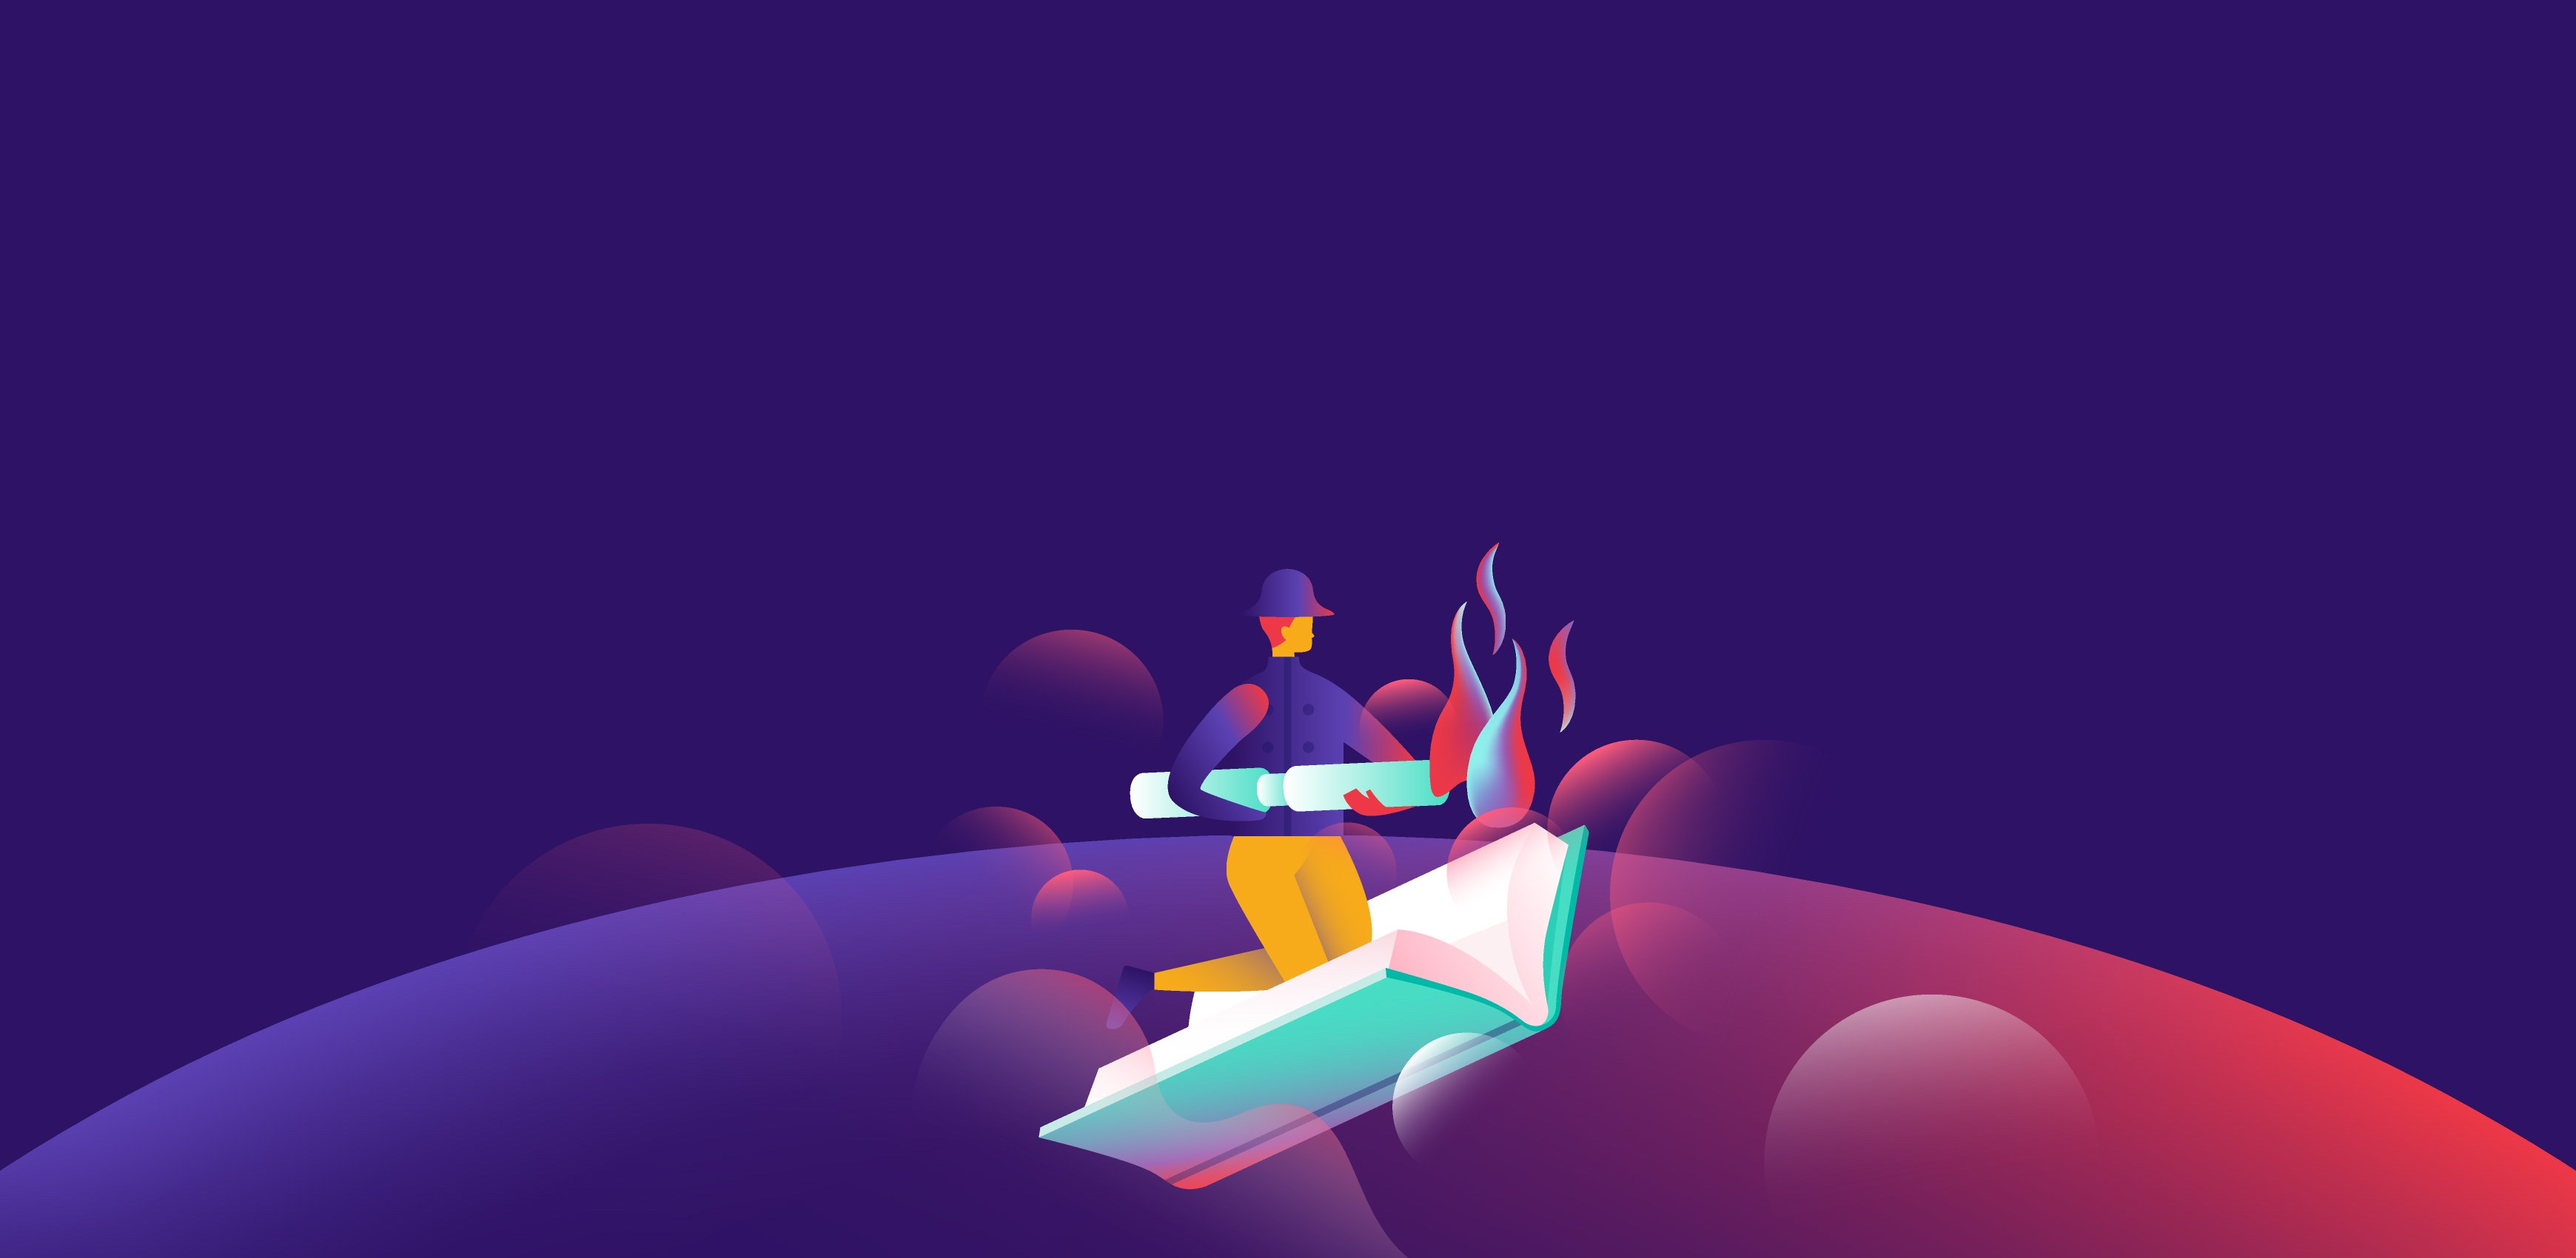
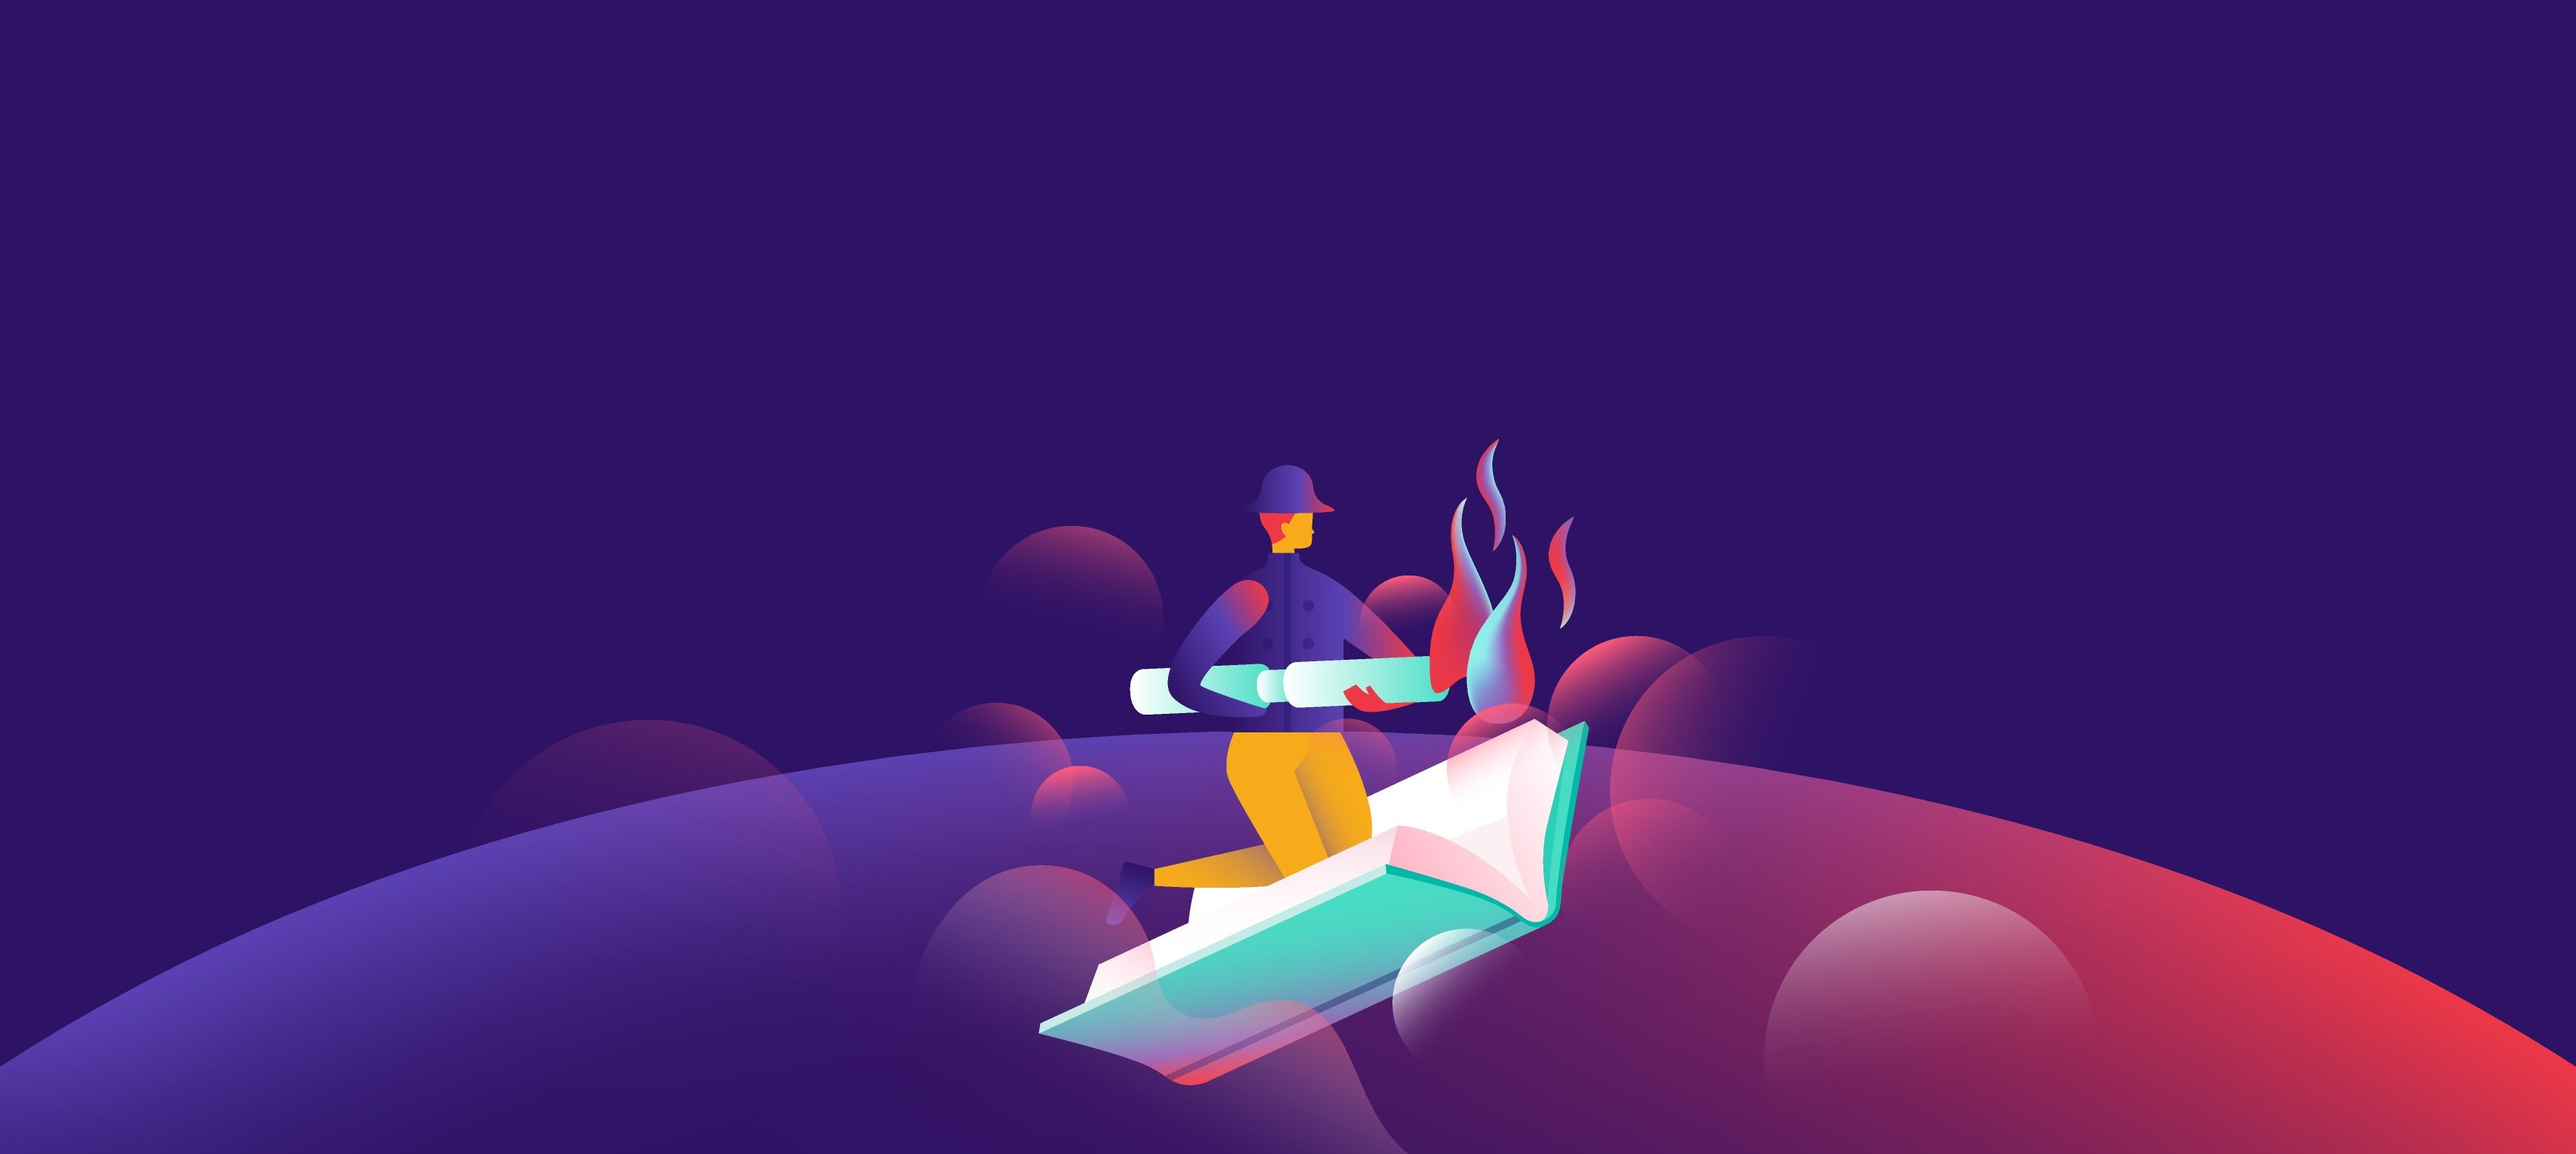
updated about page's navbar behavior

Changed region(s): [[0.031, 0.4, 1.0, 0.9538], [0.6828, 0.8, 0.7138, 0.8615], [0.0, 0.8923, 0.031, 0.9231]]

diff --git a/src/scss/pages/_about.scss b/src/scss/pages/_about.scss
@@ -4,23 +4,24 @@
 
     .hero-image {
         position: relative;
-        min-height: 90vh;
+        min-height: 80vh;
         background-image: url(/img/about-hero.jpg);
         background-size: cover;
         background-position: center center;
         color: #fff;
         text-align: center;
+        // z-index: 50000; // higher than navbar
 
         .aspect-ratio {
             content: '';
             display: block;
             width: 100%;
-            padding-top: 850px / 1740px * 100%;
+            padding-top: 790px / 1740px * 100%; // 850px / 1740px * 100%;
         }
 
         .inner {
             position: absolute;
-            top: (99px / 667px * 100%);
+            top: (39px / 607px * 100%); // (99px / 667px * 100%);
             left: 0;
             right: 0;
         }
@@ -103,7 +104,7 @@
 
         .hero-image {
             .inner {
-                top: (106px / 850px * 100%);
+                top: (36px / 780px * 100%); // (106px / 850px * 100%);
             }
 
             h1 {
@@ -165,7 +166,7 @@
     .about {
         .hero-image {
             .aspect-ratio {
-                padding-top: 667px;
+                padding-top: 597px; // 667px;
             }
         }
     }

diff --git a/src/scss/my-materialize/_navbar.scss b/src/scss/my-materialize/_navbar.scss
@@ -4,7 +4,7 @@ nav {
   width: 100%;
   height: $navbar-height-mobile;
   line-height: $navbar-line-height-mobile;
-  transition: all .2s linear;
+  // transition: all .2s linear;
 
   a { color: $navbar-font-color; }
 
@@ -12,7 +12,7 @@ nav {
     position: relative;
     height: 100%;
     box-shadow: 0 2px 4px rgba(0, 0, 0, 0.1);
-    transition: all .2s linear;
+    // transition: all .2s linear;
   }
 
 
